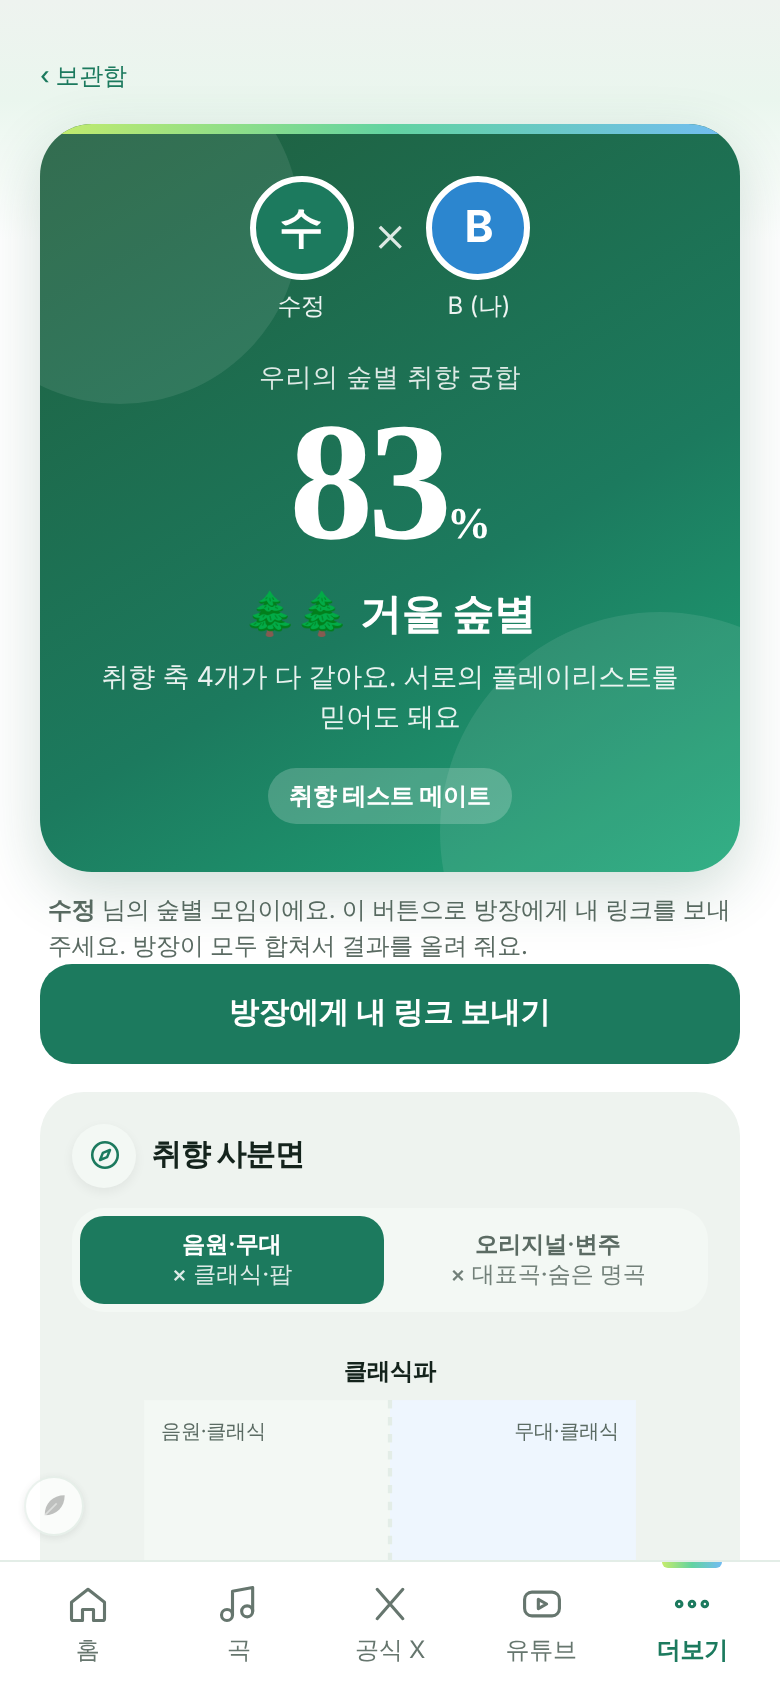
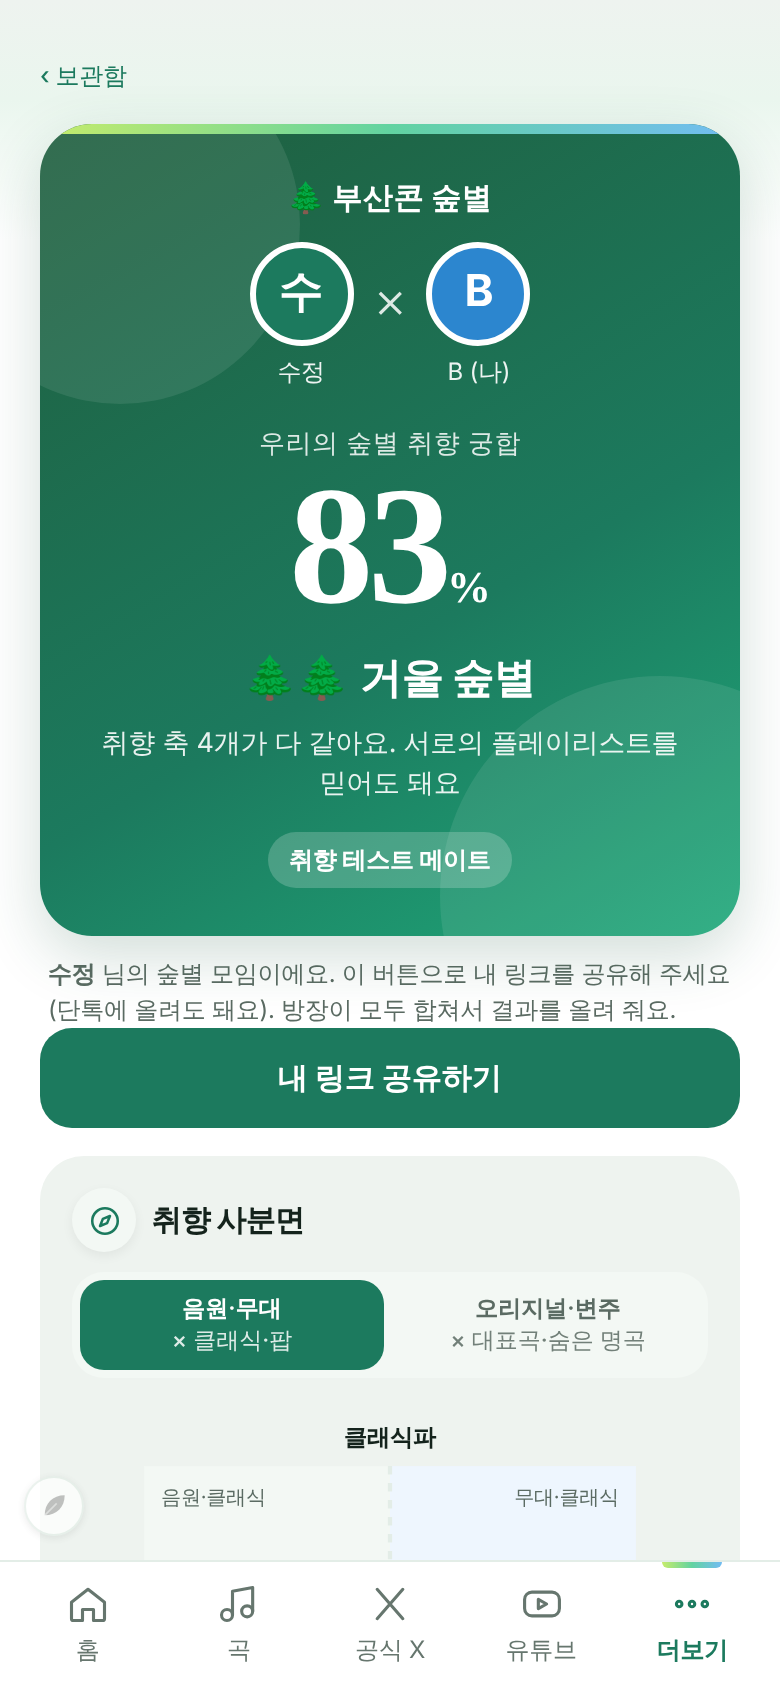
숲별 모임: 이름 정하기, '내 링크 공유하기', 링크 붙여 넣으면 사람 체크 목록·깨진 링크·중복 표시 (미배포)
Claude-Session: https://claude.ai/code/session_01MGTh9zKioiZsMkgnkSk7j5

Changed region(s): [[0.0308, 0.0924, 0.9538, 0.8934], [0.6154, 0.7085, 0.8308, 0.8009], [0.6769, 0.8318, 0.7692, 0.8934]]

diff --git a/app.js b/app.js
@@ -5457,7 +5457,9 @@
       return { n: nm || '숲별', s: /^\d{8}$/.test(s) ? `${s.slice(0, 4)}-${s.slice(4, 6)}-${s.slice(6)}` : '', u: u || '', f: four(f || ''), w: four(w || ''), h: four(h || ''), g: (g || '').split('.').filter(Boolean).map(t => t[0] === '*' ? t.slice(1) : String(parseInt(t, 36))), m: (m || '').split(''), t: /^[0-9a-z]{16}[0-2]$/.test(t || '') ? t : '' }; });
   };
   // 메신저가 '!'·'~'에서 링크를 자르는 일이 있어서 한 번 더 base64로 감싸요 (앞 '2')
-  const mtLink = (list, room) => location.origin + location.pathname + '#/match?' + (room ? 'g=1&' : '') + 'd=2' + mtB64(mtPack(list));
+  const mtLink = (list, room, rn) => location.origin + location.pathname + mtHashOf(list, room, rn);
+  const mtHashOf = (list, room, rn) => '#/match?' + (room ? 'g=1&' : '') + (rn ? 'rn=' + mtB64(rn) + '&' : '') + 'd=2' + mtB64(mtPack(list));
+  const mtRoomName = () => { const r = new URLSearchParams(location.hash.split('?')[1] || '').get('rn'); if (!r) return ''; try { return decodeURIComponent(escape(atob(r.replace(/-/g, '+').replace(/_/g, '/')))).slice(0, 20); } catch (err) { return ''; } };
   function mtCalc(list) {
     const pairs = [];
     for (let i = 0; i < list.length; i++) for (let j = i + 1; j < list.length; j++) pairs.push({ i, j, ...mtPair(list[i], list[j]) });
@@ -5472,14 +5474,30 @@
   const mtMergeBox = open => `<details class="mt-merge"${open ? ' open' : ''}><summary><svg viewBox="0 0 24 24" aria-hidden="true"><path d="M10 14a4 4 0 0 0 5.7 0l3-3a4 4 0 0 0-5.7-5.7l-1 1"/><path d="M14 10a4 4 0 0 0-5.7 0l-3 3a4 4 0 0 0 5.7 5.7l1-1"/></svg>${L3('받은 링크 합치기', 'Combine links you got', 'もらったリンクをまとめる')}</summary>
     <p class="mt-sub">${L3('친구들이 각자 보낸 궁합 링크를 여기에 붙여 넣으면 한 번에 모여요. 여러 개를 한꺼번에 붙여도 돼요.', 'Paste the match links your friends sent you, and everyone gets combined. You can paste several at once.', '友だちがそれぞれ送った相性リンクをここに貼ると、まとめて集まります。いくつ貼ってもOK。')}</p>
     <textarea id="mt-merge-t" rows="3" placeholder="${L3('링크 붙여 넣기', 'Paste links', 'リンクを貼る')}"></textarea>
+    <div class="mt-merge-list" id="mt-merge-l"></div>
     <button type="button" class="mt-go" id="mt-merge-go">${L3('합쳐서 보기', 'Combine and view', 'まとめて見る')}</button></details>`;
-  function mtMerge(text, base) {
+  // 붙여 넣은 글 → 링크마다 사람 목록 (깨진 링크·이미 있는 사람도 표시)
+  function mtScan(text, base) {
     const ds = [...String(text || '').matchAll(/[?&]d=([A-Za-z0-9_\-~!.%]+)/g)].map(m => { try { return decodeURIComponent(m[1]); } catch (err) { return m[1]; } });
-    if (!ds.length) return null;
-    const me = mtMe(), out = [], seen = new Set(), add = p => { if (!p || typeof p.n !== 'string') return; const q = { n: p.n, s: p.s || '', u: String(p.u || ''), t: p.t || '', ...Object.fromEntries(['f', 'w', 'h', 'g', 'm'].map(k => [k, Array.isArray(p[k]) ? p[k].map(String) : []])) };
-      if (mtNone(q)) return; const id = mtIsMe(q.u, me) ? me.u : q.u || ('?' + out.length); if (seen.has(id)) return; seen.add(id); out.push(mtIsMe(q.u, me) ? me : q); };
-    base.forEach(add); ds.forEach(d => mtUnpack(d).forEach(add));
-    return { list: out.slice(0, MT_MAX), cut: Math.max(0, out.length - MT_MAX), found: ds.length };
+    const me = mtMe(), norm = p => (!p || typeof p.n !== 'string') ? null : { n: p.n, s: p.s || '', u: String(p.u || ''), t: p.t || '', ...Object.fromEntries(['f', 'w', 'h', 'g', 'm'].map(k => [k, Array.isArray(p[k]) ? p[k].map(String) : []])) };
+    const key = q => mtIsMe(q.u, me) ? me.u : q.u, have = new Set(base.map(norm).filter(Boolean).map(key)), seen = new Map(), items = [], bad = [], dup = [];
+    ds.forEach((d, li) => { const ps = mtUnpack(d).map(norm).filter(q => q && !mtNone(q)); if (!ps.length) { bad.push(li + 1); return; }
+      const n0 = items.length; ps.forEach(q => { const id = key(q) || ('?' + items.length); if (have.has(id) || seen.has(id)) return; seen.set(id, 1); items.push({ id, p: mtIsMe(q.u, me) ? me : q, link: li + 1 }); }); if (items.length === n0) dup.push(li + 1); });
+    return { n: ds.length, items, bad, dup, have: have.size };
+  }
+  function mtMerge(text, base, pick) {
+    const r = mtScan(text, base); if (!r.n) return null;
+    const me = mtMe(), out = base.filter(p => p && !mtNone({ f: [], w: [], h: [], g: [], m: [], ...p })).map(p => mtIsMe(p.u, me) ? me : p);
+    r.items.filter(x => !pick || pick.includes(x.id)).forEach(x => out.push(x.p));
+    return { list: out.slice(0, MT_MAX), cut: Math.max(0, out.length - MT_MAX), found: r.n };
+  }
+  function mtScanHtml(r) {
+    if (!r.n) return '';
+    return `<p class="mt-ml-h">${L3(`링크 ${r.n}개 · 새로 들어올 사람 ${r.items.length}명`, `${r.n} links · ${r.items.length} new`, `リンク${r.n}件・新しく入る人${r.items.length}人`)}</p>
+      ${r.items.map(x => `<label class="mt-ml"><input type="checkbox" data-id="${esc(x.id)}" checked><b>${esc(x.p.n)}</b><small>${L3(`링크 ${x.link}`, `link ${x.link}`, `リンク${x.link}`)}${x.p.t ? ' · ' + esc(tsType(x.p.t)[1]) : ''}</small></label>`).join('')}
+      ${r.bad.length ? `<p class="mt-ml-bad">⚠ ${L3(`링크 ${r.bad.join(', ')}는 읽을 수 없어요. 링크가 잘렸는지 확인해 주세요`, `Link ${r.bad.join(', ')} can't be read. It may have been cut off`, `リンク${r.bad.join(', ')}は読めません。途中で切れていないか確認してください`)}</p>` : ''}
+      ${r.dup.length ? `<p class="mt-ml-h">${L3(`링크 ${r.dup.join(', ')}는 이미 들어간 사람이라 빼요`, `Link ${r.dup.join(', ')}: already included`, `リンク${r.dup.join(', ')}はもう入っている人です`)}</p>` : ''}
+      ${r.have + r.items.length > MT_MAX ? `<p class="mt-ml-bad">⚠ ${L3(`${MT_MAX}명까지만 들어가요. 체크를 줄여 주세요`, `Only ${MT_MAX} people fit. Uncheck some`, `${MT_MAX}人までです。チェックを減らしてください`)}</p>` : ''}`;
   }
   function matchView() {
     if (!isAdmin()) return `<a class="back" href="#/more">‹ 더보기</a><p class="empty">준비 중인 화면이에요.</p>`;
@@ -5496,7 +5514,7 @@
     const list = inList < 0 && meIn && got.length && got.length < MT_MAX ? [...got, me] : got;
     const meAt = list.indexOf(me);
     // 숲별 모임: 방장(링크 첫 사람)이 만든 링크(g=1). 친구는 방장에게 내 링크를 보내고, 방장은 받은 링크를 합쳐요
-    const room = q.get('g') === '1' && got.length > 0, host = got[0], iHost = room && mtIsMe(host.u, me);
+    const room = q.get('g') === '1' && got.length > 0, host = got[0], iHost = room && mtIsMe(host.u, me), rn = mtRoomName();
     const back = `<a class="back" href="#/box">‹ 보관함</a>`;
     // 처음 화면: 내 링크 만들기
     if (list.length < 2) {
@@ -5506,7 +5524,7 @@
           <div class="mt-hero mt-hero-in"><i class="mt-stripe"></i><svg class="mt-venn" viewBox="0 0 120 72" aria-hidden="true"><circle cx="44" cy="36" r="30"/><circle cx="76" cy="36" r="30"/><path class="mt-venn-in" d="M60 11.1a30 30 0 0 1 0 49.8a30 30 0 0 1 0-49.8z"/><circle class="mt-venn-d" cx="34" cy="30" r="5"/><circle class="mt-venn-d b" cx="86" cy="42" r="5"/></svg><p class="mt-kick">FOREST MATCH</p><h1>숲별 취향 궁합</h1><p>나랑 취향이 얼마나 비슷할까?<br>링크를 보내면 친구 기록이랑 바로 비교돼요</p></div>
           ${tsRead() ? `<a class="ts-mine" href="#/match?r=1"><small>나의 취향 유형</small><b>${tsType(tsRead())[1]}</b><span>결과 보기 ›</span></a>`
             : `<a class="ts-start" href="#/match?test=1${q.get('d') ? '&d=' + encodeURIComponent(q.get('d')) : ''}"><b>취향 테스트 먼저 해 볼래요?</b><small>9문항 · 1분이면 끝나요. 기록이 없어도 궁합을 볼 수 있어요</small></a>`}
-          ${from ? (mtIsMe(from.u, me) ? (room ? `<p class="mt-from">${mtAv(from, 0)} ${L3('내가 만든 숲별 모임이에요. 친구들이 보내 준 링크를 아래 칸에 한꺼번에 붙여 넣으면 모두 모여요.', 'This is your Soopbyeol group. Paste all the links your friends sent you below to bring everyone together.', '自分が作ったスッピョルの集まりです。友だちから届いたリンクを下にまとめて貼るとみんな集まります。')}</p>${mine ? mtMergeBox(true) : ''}` : `<p class="mt-from">${mtAv(from, 0)} 내가 만든 궁합 링크예요. 친구가 열면 둘의 궁합이 보여요.</p>`) : `<p class="mt-from">${mtAv(from, 0)} <b>${esc(from.n)}</b> 님이 궁합 링크를 보냈어요. 내 기록이 있어야 비교할 수 있어요.</p>`) : ''}
+          ${from ? (mtIsMe(from.u, me) ? (room ? `${rn ? `<p class="mt-room-t">🌲 ${esc(rn)}</p>` : ''}<p class="mt-from">${mtAv(from, 0)} ${L3('내가 만든 숲별 모임이에요. 친구들이 보내 준 링크를 아래 칸에 한꺼번에 붙여 넣으면 모두 모여요.', 'This is your Soopbyeol group. Paste all the links your friends sent you below to bring everyone together.', '自分が作ったスッピョルの集まりです。友だちから届いたリンクを下にまとめて貼るとみんな集まります。')}</p>${mine ? mtMergeBox(true) : ''}` : `<p class="mt-from">${mtAv(from, 0)} 내가 만든 궁합 링크예요. 친구가 열면 둘의 궁합이 보여요.</p>`) : `<p class="mt-from">${mtAv(from, 0)} <b>${esc(from.n)}</b> 님이 궁합 링크를 보냈어요. 내 기록이 있어야 비교할 수 있어요.</p>`) : ''}
           ${mine ? `
             <div class="mt-mine">
               <label class="mt-nick">링크에 보일 이름 <input id="mt-nick" maxlength="12" value="${esc(card.nick || '')}" placeholder="숲별"></label>
@@ -5515,6 +5533,7 @@
                 return `<label class="mt-pk${n ? '' : ' none'}"><input type="checkbox" data-k="${k}"${n && !mtOff().includes(k) ? ' checked' : ''}${n ? '' : ' disabled'}><span>${l}</span><b>${esc(String(cnt))}</b></label>`; }).join('')}</div>
               <button type="button" class="mt-go" id="mt-send"><svg viewBox="0 0 24 24" aria-hidden="true"><path d="M10 14a4 4 0 0 0 5.7 0l3-3a4 4 0 0 0-5.7-5.7l-1 1"/><path d="M14 10a4 4 0 0 0-5.7 0l-3 3a4 4 0 0 0 5.7 5.7l1-1"/></svg>내 궁합 링크 보내기</button>
               <button type="button" class="mt-sub-btn" id="mt-room"><svg viewBox="0 0 24 24" aria-hidden="true"><circle cx="8" cy="9" r="3"/><circle cx="16" cy="9" r="3"/><path d="M3 19a5 5 0 0 1 10 0M11 19a5 5 0 0 1 10 0"/></svg>${L3('숲별 모임 만들기', 'Start a Soopbyeol group', 'スッピョルの集まりを作る')}</button>
+              <div class="mt-room-new" hidden><input id="mt-room-n" maxlength="20" placeholder="${L3('모임 이름 (예: 부산콘 같이 간 숲별)', 'Group name (e.g. Busan concert crew)', '集まりの名前 (例: 釜山コン仲間)')}"><button type="button" class="mt-go" id="mt-room-go">${L3('만들고 링크 공유하기', 'Create and share link', '作ってリンクを共有')}</button></div>
               <p class="mt-note">${L3('숲별 모임: 단톡에 링크를 한 번 올리면, 친구들이 각자 내 링크를 방장에게 보내요. 방장이 받은 링크를 합쳐서 결과를 올려 줘요.', 'Group: post the link once in your group chat. Each friend sends their link back to you, then you combine them and share the result.', '集まり：グループチャットにリンクを一度送ると、友だちがそれぞれ自分のリンクを幹事に送ります。幹事がまとめて結果を共有します。')}</p>
               <p class="mt-note">${L3(`링크엔 체크한 것과 이름만 들어가요. ♥ 곡·직관처럼 많은 걸 담을수록 링크가 길어져요. 링크를 받은 사람만 볼 수 있어요.<br>여러 명이면 받은 사람이 열고 결과 링크를 다시 보내면 계속 이어져요 (최대 ${MT_MAX}명).`, `Only the checked items and your name go into the link. The more you add (like ♥ songs or shows), the longer the link. Only people with the link can see it.<br>For a group, each person opens it and sends the result link on (up to ${MT_MAX} people).`, `リンクにはチェックした項目と名前だけが入ります。♥曲や現場など多く入れるほどリンクが長くなります。リンクを受け取った人だけが見られます。<br>複数人なら、受け取った人が開いて結果リンクを送り直すとつながります(最大${MT_MAX}人)。`)}</p>
             </div>${from && room && mtIsMe(from.u, me) ? '' : mtMergeBox(!!from)}` : `<p class="empty">아직 비교할 기록이 없어요. 곡에 ♥나 💚 최애곡, 일정에 🎫 직관을 눌러 두면 궁합을 볼 수 있어요.<br><a href="#/songs">곡 아카이브 가기</a></p>`}
@@ -5563,6 +5582,7 @@
     return `${back}
       <section class="mt-res${group ? ' mt-g' : ''}">
         <div class="mt-hero"><i class="mt-stripe"></i>
+          ${rn ? `<p class="mt-room-t">🌲 ${esc(rn)}</p>` : ''}
           <div class="mt-avs">${list.map((p, i) => `<span class="mt-pp">${mtAv(p, i)}<small>${esc(p.n)}${i === meAt ? ' (나)' : ''}</small></span>`).join(group ? '' : '<span class="mt-x">×</span>')}</div>
           <p class="mt-lab">${group ? `${list.length}명의` : '우리의'} 숲별 취향 궁합</p>
           ${R.none ? '' : `<p class="mt-pct"><b id="mt-num" data-n="${R.pct}">${R.pct}</b>%</p>`}
@@ -5570,13 +5590,13 @@
           <p class="mt-say">${T[3]}</p>
           ${R.tags.length ? `<div class="mt-tags">${R.tags.map(t => `<span>${t}</span>`).join('')}</div>` : ''}
         </div>
-        ${room && !iHost && meAt >= 0 ? `<p class="mt-hint mt-room-h">${L3(`<b>${esc(host.n)}</b> 님의 숲별 모임이에요. 이 버튼으로 방장에게 내 링크를 보내 주세요. 방장이 모두 합쳐서 결과를 올려 줘요.`, `This is <b>${esc(host.n)}</b>'s Soopbyeol group. Send your link to the host with this button. The host will combine everyone and share the result.`, `<b>${esc(host.n)}</b>さんのスッピョルの集まりです。このボタンで幹事に自分のリンクを送ってください。幹事がまとめて結果を共有します。`)}</p><button type="button" class="mt-go mt-room-go" onclick="document.getElementById('mt-share').click()">${L3('방장에게 내 링크 보내기', 'Send my link to the host', '幹事に自分のリンクを送る')}</button>` : ''}
+        ${room && !iHost && meAt >= 0 ? `<p class="mt-hint mt-room-h">${L3(`<b>${esc(host.n)}</b> 님의 숲별 모임이에요. 이 버튼으로 내 링크를 공유해 주세요 (단톡에 올려도 돼요). 방장이 모두 합쳐서 결과를 올려 줘요.`, `This is <b>${esc(host.n)}</b>'s Soopbyeol group. Share your link with this button (posting it in the group chat is fine). The host will combine everyone and share the result.`, `<b>${esc(host.n)}</b>さんのスッピョルの集まりです。このボタンで自分のリンクを共有してください(グループチャットでもOK)。幹事がまとめて結果を共有します。`)}</p><button type="button" class="mt-go mt-room-go" onclick="document.getElementById('mt-share').click()">${L3('내 링크 공유하기', 'Share my link', '自分のリンクを共有')}</button>` : ''}
         ${!room && meAt >= 0 && inList < 0 ? `<p class="mt-hint">내 기록도 같이 비교했어요. 아래 '결과 링크 보내기'를 누르면 나도 링크에 들어가요.</p>` : ''}
         ${add ? `<p class="mt-hint">${L3(`${MT_MAX}명이 꽉 차서 나는 못 넣어요.`, `It's full (${MT_MAX} people), so you can't be added.`, `${MT_MAX}人でいっぱいなので追加できません。`)}</p>` : ''}
         ${cards.join('')}
         ${!room || iHost ? mtMergeBox(iHost) : ''}
         <div class="mt-acts">
-          <button type="button" class="mt-go" id="mt-share" data-n="${list.length}" data-room="${room && !iHost && meAt >= 0 ? esc(host.n) : ''}"><svg viewBox="0 0 24 24" aria-hidden="true"><path d="M10 14a4 4 0 0 0 5.7 0l3-3a4 4 0 0 0-5.7-5.7l-1 1"/><path d="M14 10a4 4 0 0 0-5.7 0l-3 3a4 4 0 0 0 5.7 5.7l1-1"/></svg>${room && !iHost && meAt >= 0 ? L3('방장에게 내 링크 보내기', 'Send my link to the host', '幹事に自分のリンクを送る') : list.length < MT_MAX ? (group || meAt >= 0 ? '결과 링크 보내기 · 다음 사람도 넣을 수 있어요' : '결과 링크 보내기') : '결과 링크 보내기'}</button>
+          <button type="button" class="mt-go" id="mt-share" data-n="${list.length}" data-room="${room && !iHost && meAt >= 0 ? esc(rn || host.n) : ''}"><svg viewBox="0 0 24 24" aria-hidden="true"><path d="M10 14a4 4 0 0 0 5.7 0l3-3a4 4 0 0 0-5.7-5.7l-1 1"/><path d="M14 10a4 4 0 0 0-5.7 0l-3 3a4 4 0 0 0 5.7 5.7l1-1"/></svg>${room && !iHost && meAt >= 0 ? L3('내 링크 공유하기', 'Share my link', '自分のリンクを共有') : list.length < MT_MAX ? (group || meAt >= 0 ? '결과 링크 보내기 · 다음 사람도 넣을 수 있어요' : '결과 링크 보내기') : '결과 링크 보내기'}</button>
           ${R.none ? '' : `<button type="button" class="mt-sub-btn" id="mt-img"><svg viewBox="0 0 24 24" aria-hidden="true"><rect x="3" y="4" width="18" height="16" rx="2"/><circle cx="9" cy="10" r="2"/><path d="m21 16-5-5-9 9"/></svg>결과 이미지 저장</button>`}
           <a class="mt-sub-btn" href="#/match"><svg viewBox="0 0 24 24" aria-hidden="true"><path d="M12 20s-7-4.4-7-10a4 4 0 0 1 7-2.6A4 4 0 0 1 19 10c0 5.6-7 10-7 10z"/></svg>내 링크 새로 만들기</a>
         </div>
@@ -5603,16 +5623,21 @@
     };
     const sh = document.getElementById('mt-share');
     const rm = document.getElementById('mt-room');
-    if (rm) rm.onclick = () => { const v = document.getElementById('mt-nick').value.trim().slice(0, 12); if (v !== (card.nick || '')) { card.nick = v; cardSave(); } if (mtEmpty(mtMe())) { toast(L3('담을 항목을 하나 이상 체크해 주세요', 'Check at least one item to include', '入れる項目を1つ以上選んでください')); return; } share(L3('숲별 모임에 초대해요! 링크를 열고 \'방장에게 내 링크 보내기\'를 눌러 줘 🌲 (숲별 기록장)', 'Join my Soopbyeol group! Open the link and tap "Send my link to the host" 🌲 (Soopbyeol Archive)', 'スッピョルの集まりに招待します!リンクを開いて「幹事に自分のリンクを送る」を押してね 🌲 (スッピョル記録帳)'), mtLink([mtMe()], true)); };
-    if (sh && sh.dataset.room) sh.onclick = () => share(L3(`${sh.dataset.room} 님, 숲별 모임에 내 링크 보내요 🌲`, `${sh.dataset.room}, here's my link for the group 🌲`, `${sh.dataset.room}さん、集まり用の私のリンクです 🌲`), mtLink(mtList, true));
-    else if (sh) sh.onclick = () => share((n => L3(`우리 포레 취향 궁합 ${n}% 💞 링크 열면 너도 넣을 수 있어 (숲별 기록장)`, `Our Forestella taste match: ${n}% 💞 Open the link to join (Soopbyeol Archive)`, `私たちのフォレ好み相性 ${n}% 💞 リンクを開けばあなたも参加できるよ (スッピョル記録帳)`))((document.getElementById('mt-num') || { dataset: { n: '?' } }).dataset.n), mtLink(mtList));
+    if (rm) rm.onclick = () => { const bx = document.querySelector('.mt-room-new'); bx.hidden = !bx.hidden; if (!bx.hidden) document.getElementById('mt-room-n').focus(); };
+    const rg = document.getElementById('mt-room-go');
+    if (rg) rg.onclick = () => { const v = document.getElementById('mt-nick').value.trim().slice(0, 12); if (v !== (card.nick || '')) { card.nick = v; cardSave(); } const nm = document.getElementById('mt-room-n').value.trim().slice(0, 20); if (mtEmpty(mtMe())) { toast(L3('담을 항목을 하나 이상 체크해 주세요', 'Check at least one item to include', '入れる項目を1つ以上選んでください')); return; } share(L3('숲별 모임에 초대해요! 링크를 열고 \'내 링크 공유하기\'를 눌러 줘 🌲 (숲별 기록장)', 'Join my Soopbyeol group! Open the link and tap "Send my link to the host" 🌲 (Soopbyeol Archive)', 'スッピョルの集まりに招待します!リンクを開いて「自分のリンクを共有」を押してね 🌲 (スッピョル記録帳)').replace(/숲별 모임에|my Soopbyeol group|スッピョルの集まりに/, m => nm ? (L3(`'${nm}' 모임에`, `"${nm}"`, `「${nm}」に`)) : m), mtLink([mtMe()], true, nm)); };
+    if (sh && sh.dataset.room) sh.onclick = () => share(L3(`${sh.dataset.room} 모임에 내 링크 올려요 🌲`, `My link for ${sh.dataset.room} 🌲`, `${sh.dataset.room}の集まり用の私のリンク 🌲`), mtLink(mtList, true, mtRoomName()));
+    else if (sh) sh.onclick = () => share((n => L3(`우리 포레 취향 궁합 ${n}% 💞 링크 열면 너도 넣을 수 있어 (숲별 기록장)`, `Our Forestella taste match: ${n}% 💞 Open the link to join (Soopbyeol Archive)`, `私たちのフォレ好み相性 ${n}% 💞 リンクを開けばあなたも参加できるよ (スッピョル記録帳)`))((document.getElementById('mt-num') || { dataset: { n: '?' } }).dataset.n), mtLink(mtList, false, mtRoomName()));
     const mg = document.getElementById('mt-merge-go');
+    const mtBase = () => mtList.length ? mtList : [mtMe()], mtT = document.getElementById('mt-merge-t');
+    if (mtT) mtT.oninput = () => { document.getElementById('mt-merge-l').innerHTML = mtScanHtml(mtScan(mtT.value, mtBase())); };
     if (mg) mg.onclick = () => {
-      const r = mtMerge(document.getElementById('mt-merge-t').value, mtList.length ? mtList : [mtMe()]);
+      const pick = [...document.querySelectorAll('#mt-merge-l input[data-id]')].filter(x => x.checked).map(x => x.dataset.id);
+      const r = mtMerge(mtT.value, mtBase(), document.querySelector('#mt-merge-l input[data-id]') ? pick : null);
       if (!r) { toast(L3('궁합 링크를 못 찾았어요. 링크를 통째로 붙여 넣어 주세요', 'No match link found. Paste the whole link', '相性リンクが見つかりません。リンクをまるごと貼ってください')); return; }
       if (r.list.length < 2) { toast(L3('합칠 사람이 없어요', 'No one to combine', 'まとめる人がいません')); return; }
       if (r.cut) toast(L3(`${MT_MAX}명까지만 합쳐요 (${r.cut}명은 빠졌어요)`, `Up to ${MT_MAX} people (${r.cut} left out)`, `${MT_MAX}人までです(${r.cut}人は入りません)`));
-      location.hash = '#/match?d=2' + mtB64(mtPack(r.list));
+      location.hash = mtHashOf(r.list, false, mtRoomName());
     };
     const im = document.getElementById('mt-img');
     if (im) im.onclick = () => mtImage();

diff --git a/style.css b/style.css
@@ -2208,3 +2208,15 @@ a.wt-yes { display: flex; align-items: center; text-decoration: none; }
 .mt-merge textarea { box-sizing: border-box; width: 100%; margin: 8px 0; padding: 10px 12px; border-radius: 12px; border: 1px solid var(--tint-2, #C9D9CE); font: inherit; font-size: 13px; resize: vertical; background: var(--card, #fff); color: inherit; }
 .mt-merge .mt-go { width: 100%; margin-bottom: 14px; }
 .mt-room-go { width: 100%; margin: 0 0 14px; }
+.mt-room-new { display: grid; gap: 8px; margin: 8px 0 4px; }
+.mt-room-new[hidden] { display: none; }
+.mt-room-new input { box-sizing: border-box; width: 100%; padding: 12px 14px; border-radius: 14px; border: 1px solid var(--tint-2, #C9D9CE); font: inherit; background: var(--card, #fff); color: inherit; }
+.mt-room-t { margin: 0 0 10px; text-align: center; font-weight: 800; font-size: 15px; letter-spacing: .02em; }
+.mt-hero .mt-room-t { color: #fff; position: relative; }
+.mt-merge-list { display: grid; gap: 6px; margin-bottom: 10px; }
+.mt-ml-h { margin: 2px 0; font-size: 12px; color: var(--muted); font-weight: 700; }
+.mt-ml { display: flex; align-items: center; gap: 10px; padding: 10px 12px; border-radius: 12px; background: var(--card, #fff); font-size: 14px; }
+.mt-ml input { width: 18px; height: 18px; accent-color: var(--green); flex: none; }
+.mt-ml b { flex: 1; min-width: 0; overflow: hidden; text-overflow: ellipsis; white-space: nowrap; }
+.mt-ml small { color: var(--muted); font-size: 12px; flex: none; }
+.mt-ml-bad { margin: 2px 0; font-size: 12px; color: #B4541A; line-height: 1.5; }
